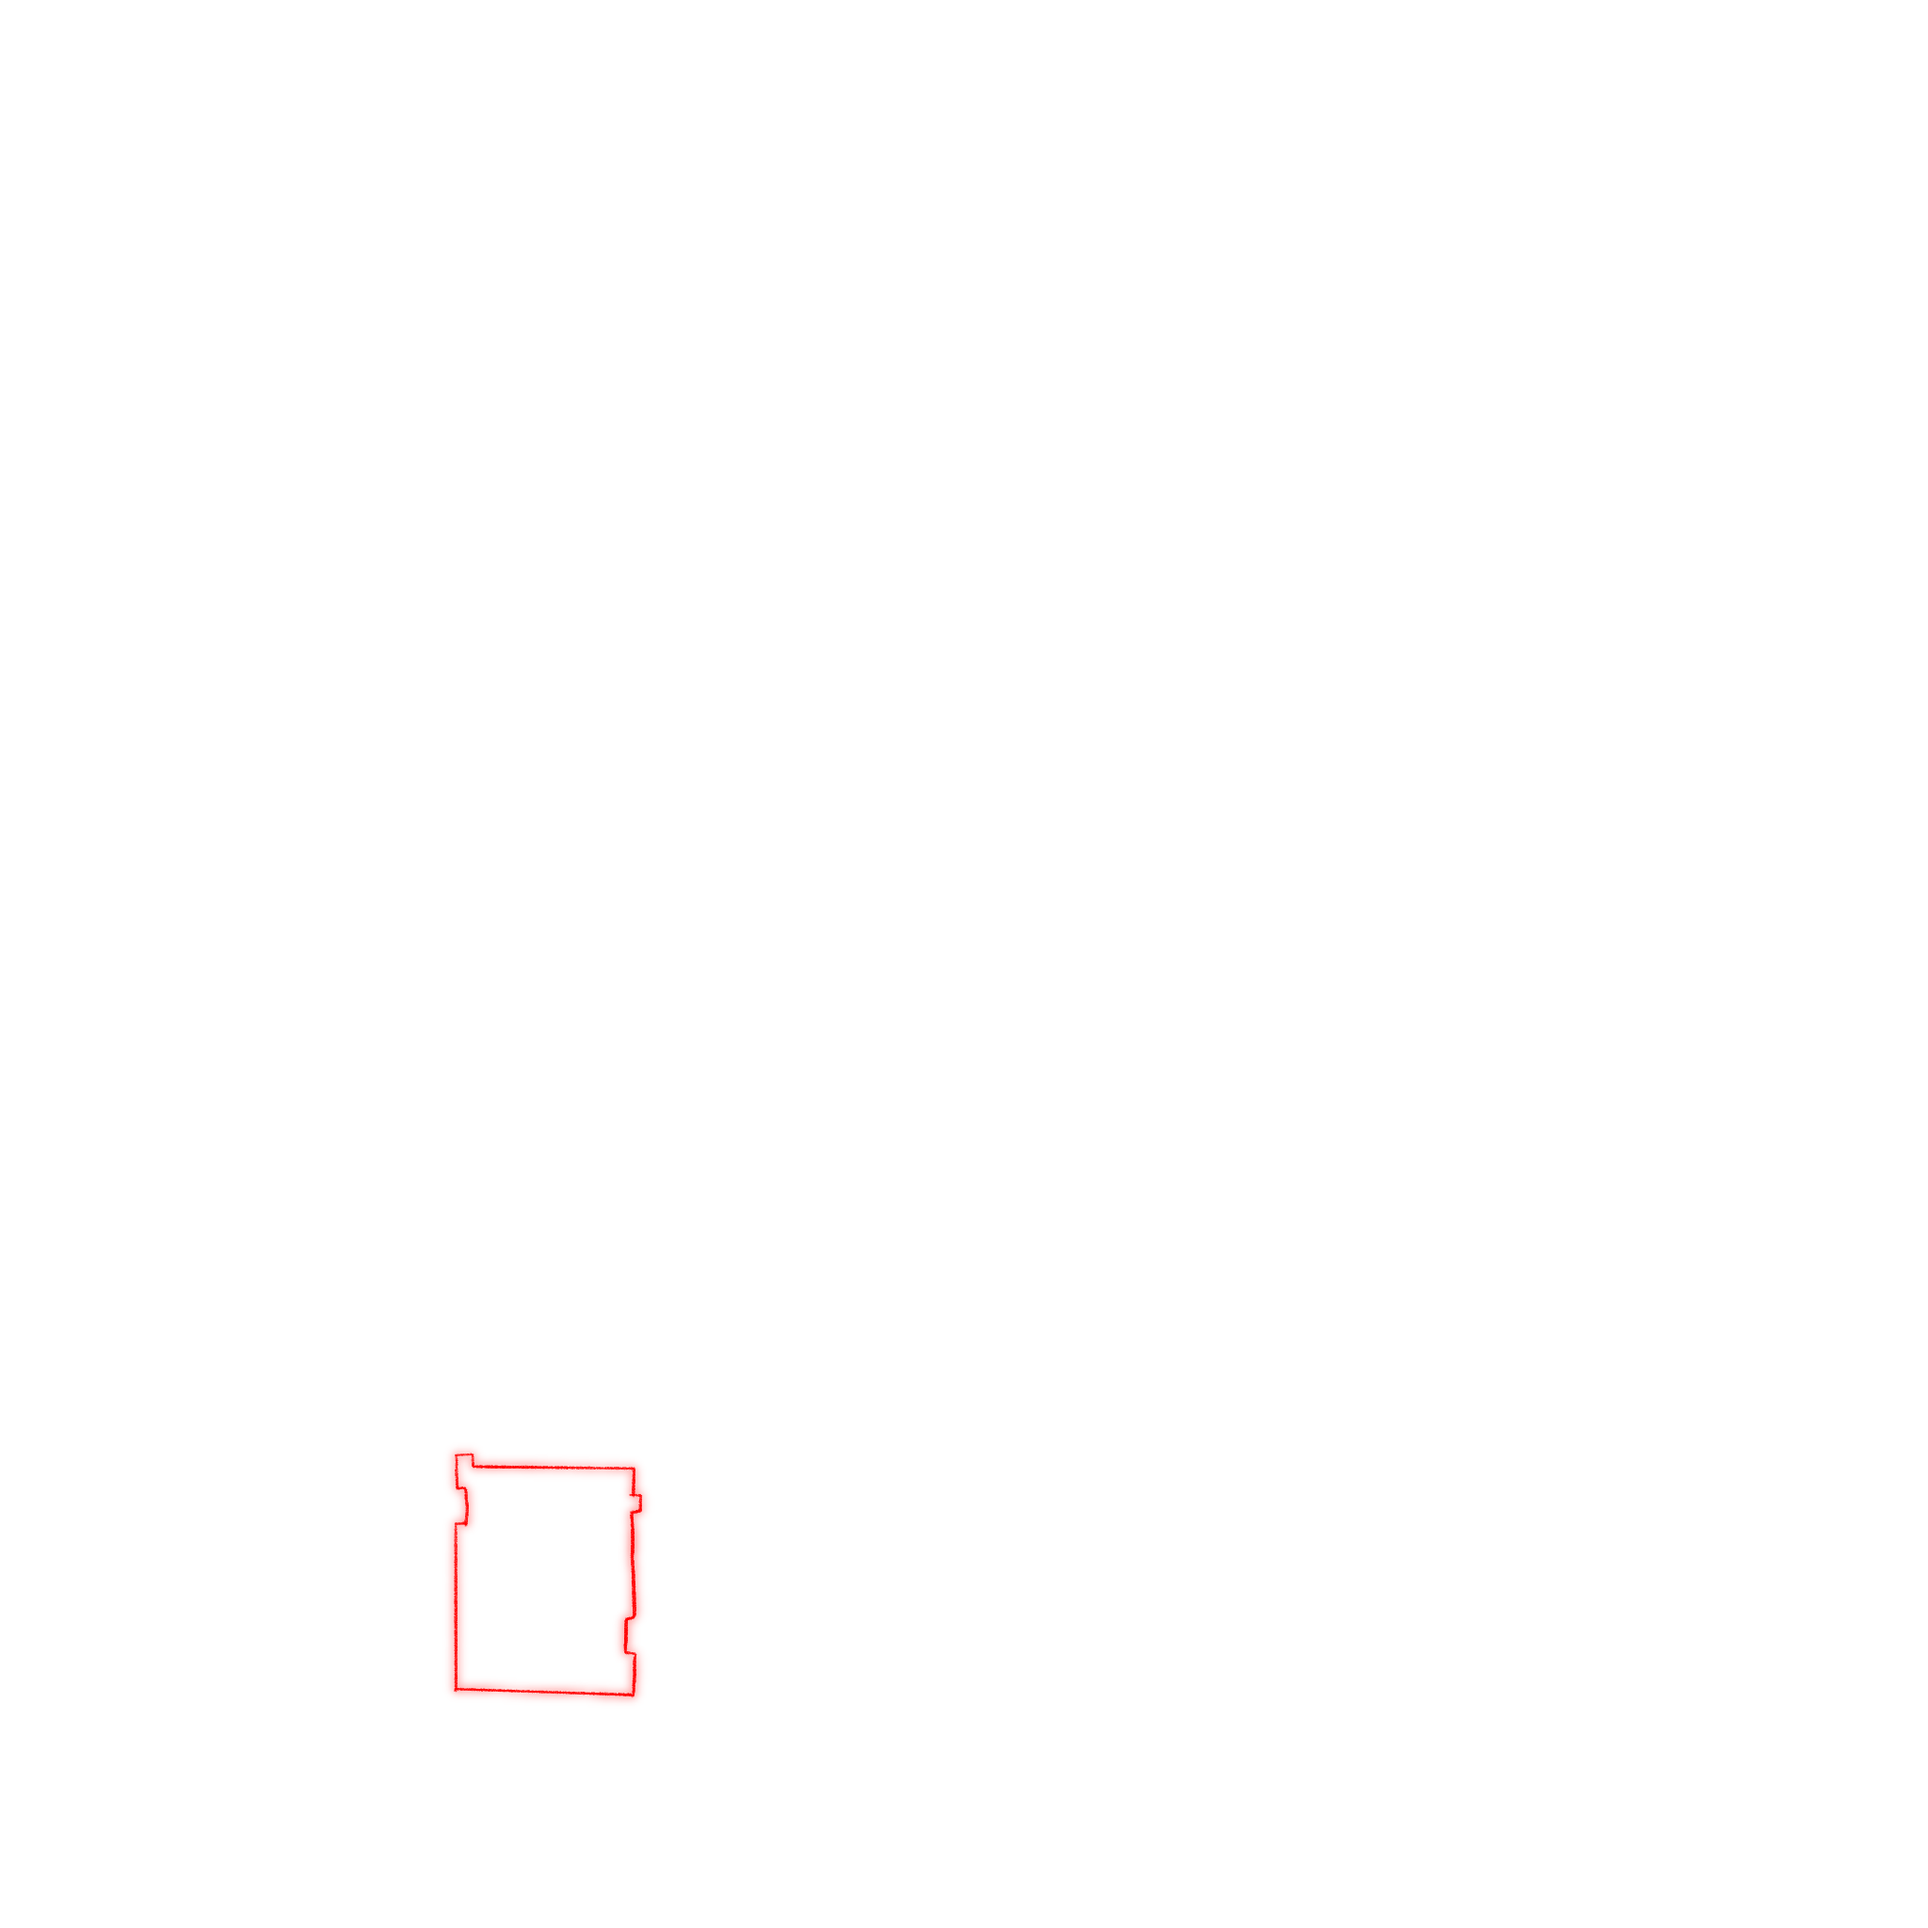
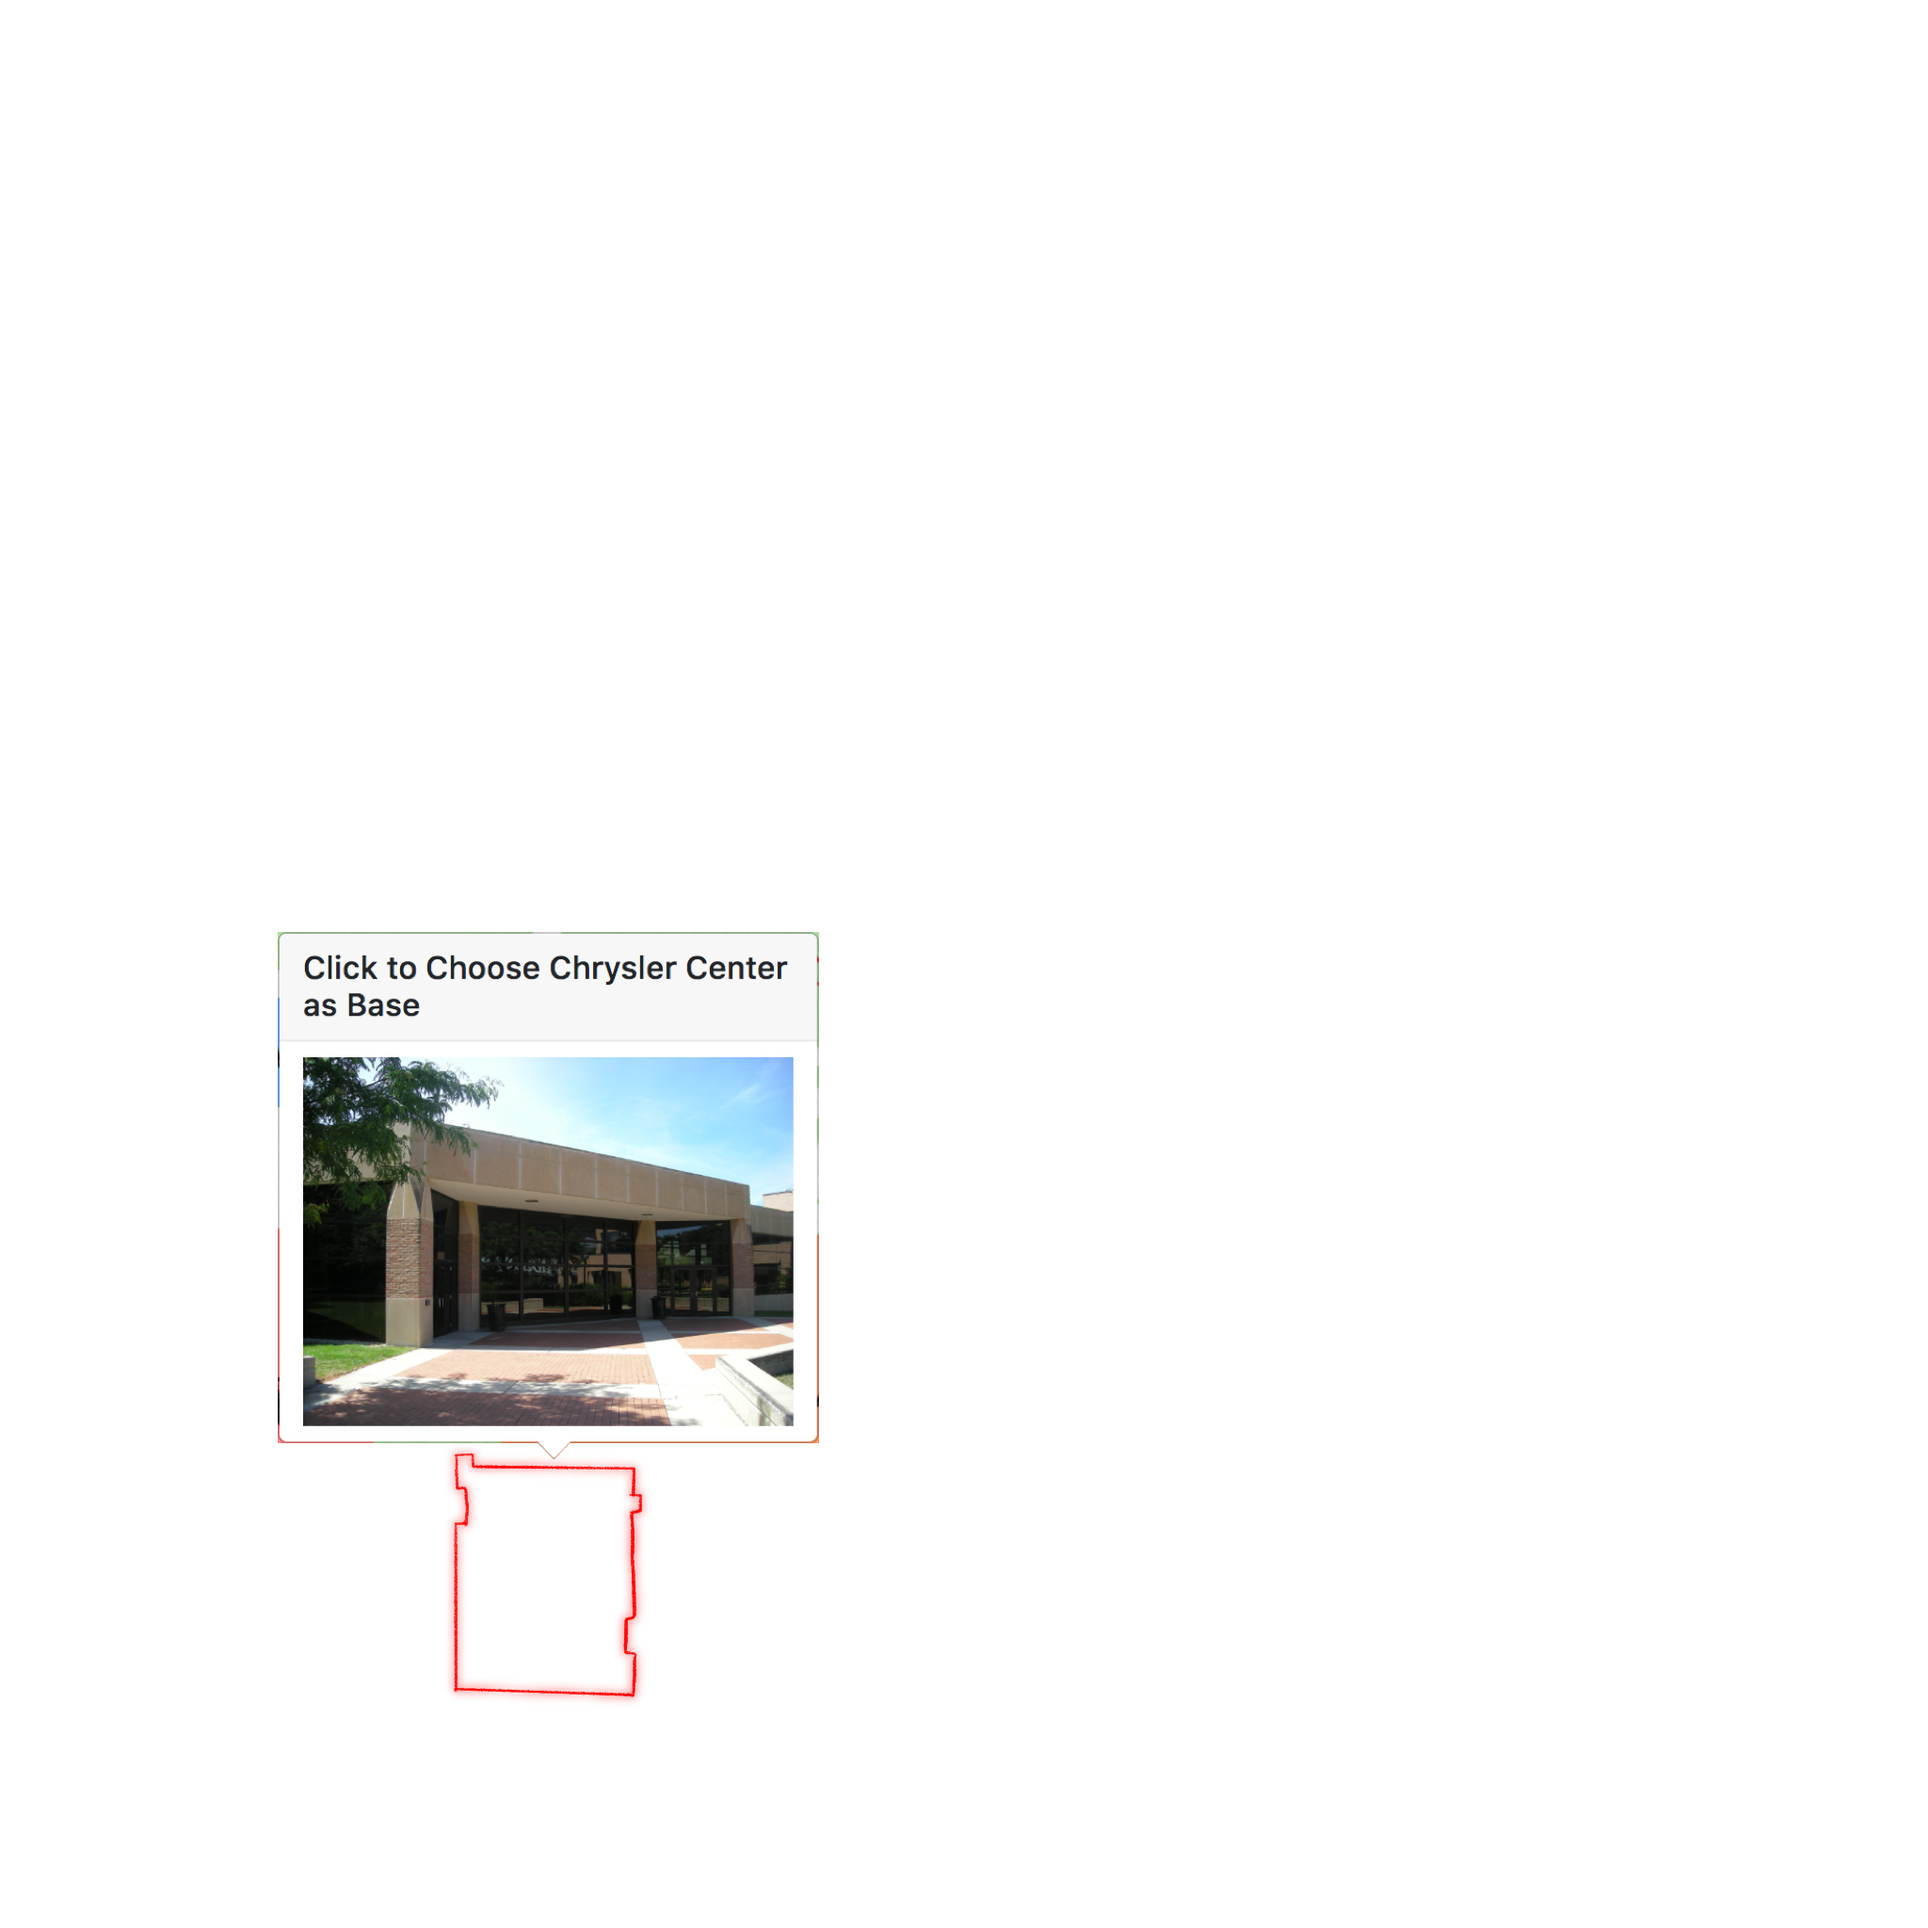
Pop up on hover for all buildings!!!

Changed region(s): [[0.1562, 0.5, 0.4375, 0.75]]

diff --git a/tower-defense/src/app/choosebase.component.html b/tower-defense/src/app/choosebase.component.html
@@ -14,9 +14,9 @@
             <img *ngIf="showduder" width="100%" class="tucen" id="duder" (mousemove)="whenHover($event)" (click)="show($event)" src="/assets/img/duder.png" >
             <img *ngIf="showpierpont" width="100%" class="tucen" id="pierpont" (mousemove)="whenHover($event)" (click)="show($event)" src="/assets/img/pierpont.png" >
             <img *ngIf="showchresler" width="100%" class="tucen" id="chresler" (mousemove)="whenHover($event)" (click)="show($event)" src="/assets/img/chresler.png" >
-            <!-- <ng-template #popContent ><img width="100%" src="/assets/img/eecs 2.jpg"></ng-template> -->
-            <!-- <button id="popover-btn" style="cursor: pointer;" (click)="this.showEecsModal = true" (mouseenter)="showeecs=true" [ngbPopover]="popContent" triggers="mouseenter:mouseleave" popoverTitle="Click to Choose EECS as Base"></button> -->
-            <!-- <button id="popover-btn" style="cursor: pointer;"  (mouseenter)="showeecs=true" [ngbPopover]="popContent"  popoverTitle="Click to Choose EECS as Base"></button> -->
+            <!-- <ng-template #popContent ><img width="100%" src="/assets/img/duder.jpg"></ng-template>
+            <button id="popover-btn" style="cursor: pointer;" (click)="this.showEecsModal = true" (mouseenter)="showeecs=true" [ngbPopover]="popContent" triggers="mouseenter:mouseleave" popoverTitle="Click to Choose EECS as Base"></button>
+            <button style="position: relative;top:200px;left:200px;"id="popover-btn" placement="top" (mouseenter)="showeecs=true" [ngbPopover]="popContent"  popoverTitle="Click to Choose Duder Center as Base"></button> -->
     </div>
 </div>
 

diff --git a/tower-defense/src/app/choosebase.component.scss b/tower-defense/src/app/choosebase.component.scss
@@ -37,7 +37,7 @@ img {
 }
 
 #popover-btn {
-    opacity: 0;
+    opacity: 1;
     position: absolute;
     left: -1;
     top: -1;
